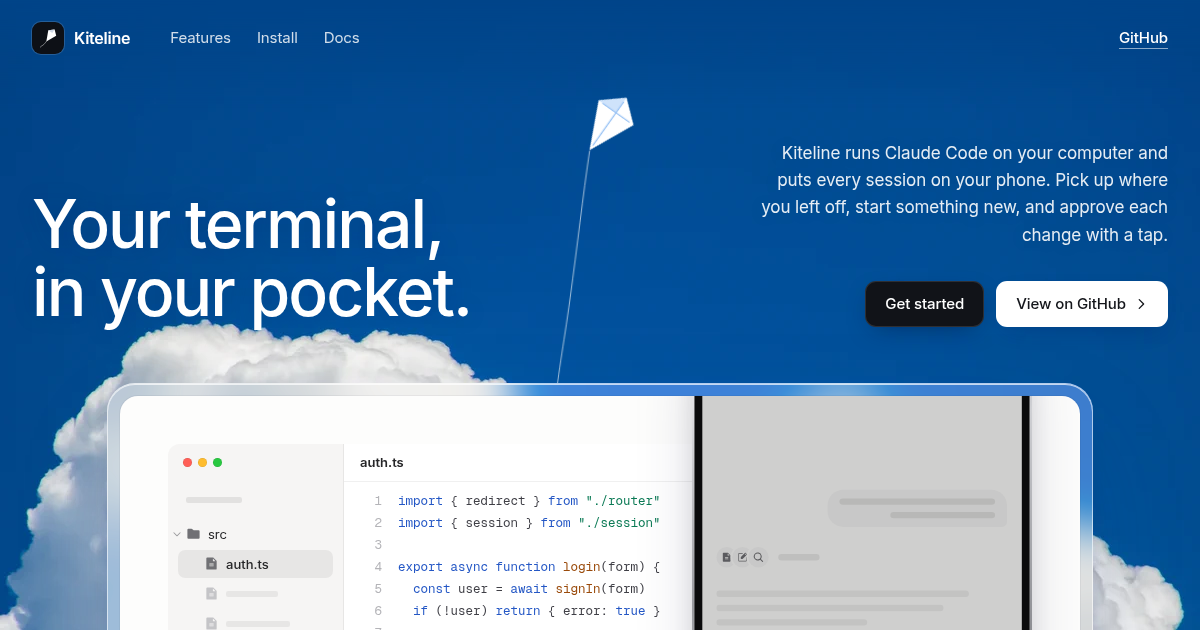
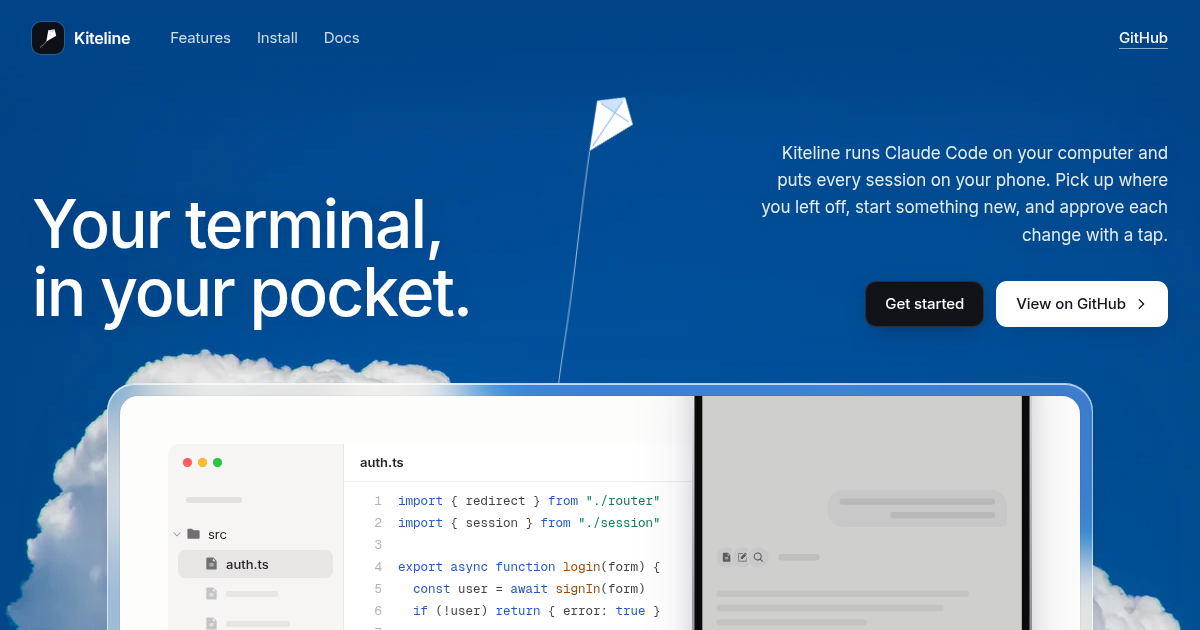
Keep the cloud tops clear of the headline
The headline always ends 56px above the frame, which is where the
tallest cloud top sat. It now rises 26px above the frame (18px on a
phone), leaving air under the text at every width.

diff --git a/apps/site/src/site.css b/apps/site/src/site.css
@@ -54,12 +54,14 @@ svg {
 /* The photograph spans the window; its cloud tops sit a fixed distance above the frame. */
 .horizon {
 	--cloud-w: max(100vw, 1100px);
+	/* How far the tallest cloud top rises above the frame: clear of the text above it. */
+	--cloud-rise: 26px;
 	position: relative;
 }
 .clouds {
 	position: absolute;
 	/* 0.279 is where the tallest cloud top sits in the photo, as a share of its width. */
-	top: calc(-56px - var(--cloud-w) * 0.279);
+	top: calc(0px - var(--cloud-rise) - var(--cloud-w) * 0.279);
 	left: 50%;
 	z-index: -1;
 	width: var(--cloud-w);
@@ -69,7 +71,7 @@ svg {
 	pointer-events: none;
 	/* Faded by distance below the frame's top, not by the photo's size, so on a wide screen the
 	   clouds still end before the next section. */
-	--frame-top: calc(var(--cloud-w) * 0.279 + 56px);
+	--frame-top: calc(var(--cloud-w) * 0.279 + var(--cloud-rise));
 	-webkit-mask-image: linear-gradient(
 		to bottom,
 		transparent,
@@ -354,9 +356,9 @@ svg {
 	/* A phone sees a slice of the photo; shift it so that slice holds a cloud top. */
 	.horizon {
 		--cloud-w: 1000px;
+		--cloud-rise: 18px;
 	}
 	.clouds {
-		top: calc(-28px - var(--cloud-w) * 0.279);
 		left: 0;
 		transform: translateX(-17%);
 	}
